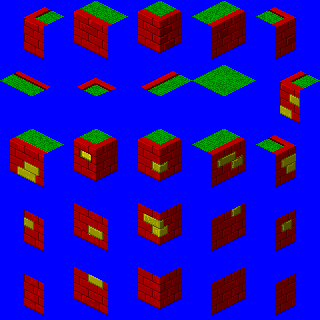
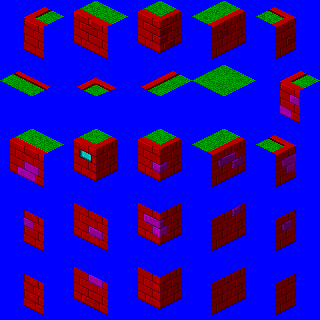
Added color selector, more city features

diff --git a/game/plotcreator/__init__.py b/game/plotcreator/__init__.py
@@ -402,6 +402,42 @@ class MusicEditorWidget(pbge.widgets.ColumnWidget):
         if mysong:
             pbge.my_state.start_music(mysong, True)
 
+class ColorSwatchEditorWidget(pbge.widgets.DropdownWidget):
+    def __init__(self, mypalette, color_index, **kwargs):
+        super().__init__(0, 0, 24, 36, on_select=self.update_swatch, **kwargs)
+        self.palette = mypalette
+        self.color_index = color_index
+        self.sprite = None
+        self.update_swatch(self.palette[self.color_index])
+        self.menu.w = 300
+        for c in gears.color.ALL_COLORS:
+            self.add_item(c.name, gears.SINGLETON_REVERSE[c])
+        self.menu.sort()
+
+    def update_swatch(self, color_name):
+        if color_name:
+            self.palette[self.color_index] = color_name
+            color = gears.SINGLETON_TYPES[color_name]
+            self.sprite = pbge.image.Image("sys_color_menu_swatch.png", 24, 36, color=[color, color, color, color, color])
+
+    def render( self ):
+        self.sprite.render(self.get_rect(), 0)
+
+
+class PaletteEditorWidget(pbge.widgets.ColumnWidget):
+    def __init__(self, part: BluePrint, var_name, **kwargs):
+        super().__init__(0,0,350,pbge.SMALLFONT.get_linesize() + 36,**kwargs)
+        self.part = part
+        self.var_name = var_name
+        self.add_interior(pbge.widgets.LabelWidget(0,0,self.w,pbge.SMALLFONT.get_linesize(),var_name,font=pbge.SMALLFONT))
+
+        myrow = pbge.widgets.RowWidget(0,0,self.w, 36)
+        self.add_interior(myrow)
+
+        mypalette = part.raw_vars.get(var_name)
+        for t in range(5):
+            myrow.add_center(ColorSwatchEditorWidget(mypalette, t))
+
 
 class VarEditorPanel(pbge.widgets.ColumnWidget):
     def __init__(self,mypart,editor,dx=10,dy=-200,w=350,h=450,**kwargs):
@@ -435,6 +471,8 @@ class VarEditorPanel(pbge.widgets.ColumnWidget):
                 mywidget = ConditionalEditorWidget(self.editor.active_part, k, refresh_fun=self.refresh_var_widgets)
             elif mybrick.vars[k].var_type == "music":
                 mywidget = MusicEditorWidget(self.editor.active_part, k)
+            elif mybrick.vars[k].var_type == "palette":
+                mywidget = PaletteEditorWidget(self.editor.active_part, k)
             else:
                 mywidget = StringVarEditorWidget(self.editor.active_part, k, self.editor.active_part.raw_vars.get(k))
             self.scroll_column.add_interior(

diff --git a/gears/color.py b/gears/color.py
@@ -51,7 +51,7 @@ Khaki = GHGradient('Khaki',(252,240,147,32,64,39),(CLOTHING,MECHA),YELLOW)
 LemonYellow = GHGradient('Lemon Yellow',(255,255,77,74,80,56),(CLOTHING,HAIR,MECHA,DETAILS),YELLOW)
 Gold = GHGradient('Gold',(0xDB,0xF8,0x96,0xDD,0x7C,0x00),(CLOTHING,HAIR,MECHA,DETAILS,METAL),YELLOW)
 ElectricYellow = GHGradient('Electric Yellow',(255,224,0,120,69,80),(CLOTHING,HAIR,MECHA,DETAILS),YELLOW)
-NobleGold = GHGradient('NobleGold',(255,249,128,69,38,23),(CLOTHING,HAIR,MECHA,DETAILS,METAL),YELLOW)
+NobleGold = GHGradient('Noble Gold',(255,249,128,69,38,23),(CLOTHING,HAIR,MECHA,DETAILS,METAL),YELLOW)
 CharredBlonde = GHGradient('Charred Blonde',(255,255,208,111,80,56),(HAIR,MECHA,DETAILS),YELLOW)
 Mustard = GHGradient('Mustard',(179,139,19,41,36,4),(CLOTHING,HAIR,MECHA,DETAILS),YELLOW)
 
@@ -171,11 +171,28 @@ def random_character_colors():
 def random_mecha_colors():
     return [random.choice(MECHA_COLORS),random.choice(MECHA_COLORS),random.choice(DETAIL_COLORS),random.choice(METAL_COLORS),random.choice(MECHA_COLORS)]
 
+def random_building_colors():
+    # Main, Glassy, Gravely, Metallic, Detail
+    return [
+        choose_color_by_one_tag([WHITE, BROWN, GREY]),
+        choose_color_by_one_tag([BLACK, BLUE, PURPLE]),
+        choose_color_by_one_tag([GREY, BLACK, BROWN]),
+        random.choice(METAL_COLORS),
+        random.choice(DETAIL_COLORS)
+    ]
+
 def choose_color_by_tags(all_these_tags):
     # Choose a color which has all of the requested tags. Return None if no appropriate colors found.
     candidates = [c for c in ALL_COLORS if c.get_tags().issuperset(all_these_tags)]
     if candidates:
         return random.choice(candidates)
+
+def choose_color_by_one_tag(any_of_these_tags):
+    # Choose a color which has all of the requested tags. Return None if no appropriate colors found.
+    candidates = [c for c in ALL_COLORS if c.get_tags().intersection(any_of_these_tags)]
+    if candidates:
+        return random.choice(candidates)
+
 
 def mutate_colors(original_color_tuple):
     mylist = list()

diff --git a/game/plotcreator/pbclasses.py b/game/plotcreator/pbclasses.py
@@ -1,5 +1,7 @@
 import collections
 import copy
+
+import gears.color
 import pbge.container
 from game.plotcreator.conditionals import build_conditional
 
@@ -60,7 +62,10 @@ class PlotBrick(object):
     def get_default_vars(self):
         myvars = dict()
         for k,v in self.vars.items():
-            myvars[k] = copy.copy(v.default_val)
+            if v.var_type == "palette":
+                myvars[k] = [gears.SINGLETON_REVERSE[c] for c in gears.color.random_building_colors()]
+            else:
+                myvars[k] = copy.copy(v.default_val)
         return myvars
 
 
@@ -133,6 +138,10 @@ class BluePrint(object):
             if vardef:
                 if vardef.var_type == "conditional":
                     myvars[k] = build_conditional(v)
+                elif vardef.var_type == "palette":
+                    #if not v:
+                    #    v = ['Black', 'Black', 'Black', 'Black', 'Black']
+                    myvars[k] = "({}, {}, {}, {}, {})".format(*["gears.color.{}".format(c) for c in v])
                 else:
                     myvars[k] = v
         return myvars

diff --git a/game/content/ghterrain.py b/game/content/ghterrain.py
@@ -356,10 +356,6 @@ class SteelPipeSouthMid(pbge.scenes.terrain.Terrain):
     frame = 3
     image_top = 'terrain_decor_pipes.png'
 
-class SteelPipeSouthMid(pbge.scenes.terrain.Terrain):
-    frame = 3
-    image_top = 'terrain_decor_pipes.png'
-
 class SteelPipe(pbge.scenes.terrain.OnTheWallVariableTerrain):
     east_frames = (0,2,2)
     south_frames = (1,3,3)

diff --git a/gears/__init__.py b/gears/__init__.py
@@ -71,6 +71,7 @@ def harvest_color(dict_to_add_to):
         o = getattr(color, name)
         if isinstance(o, color.GHGradient):
             dict_to_add_to[name] = o
+            SINGLETON_REVERSE[o] = name
             ALL_COLORS.append(o)
             if color.CLOTHING in o.sets:
                 CLOTHING_COLORS.append(o)
